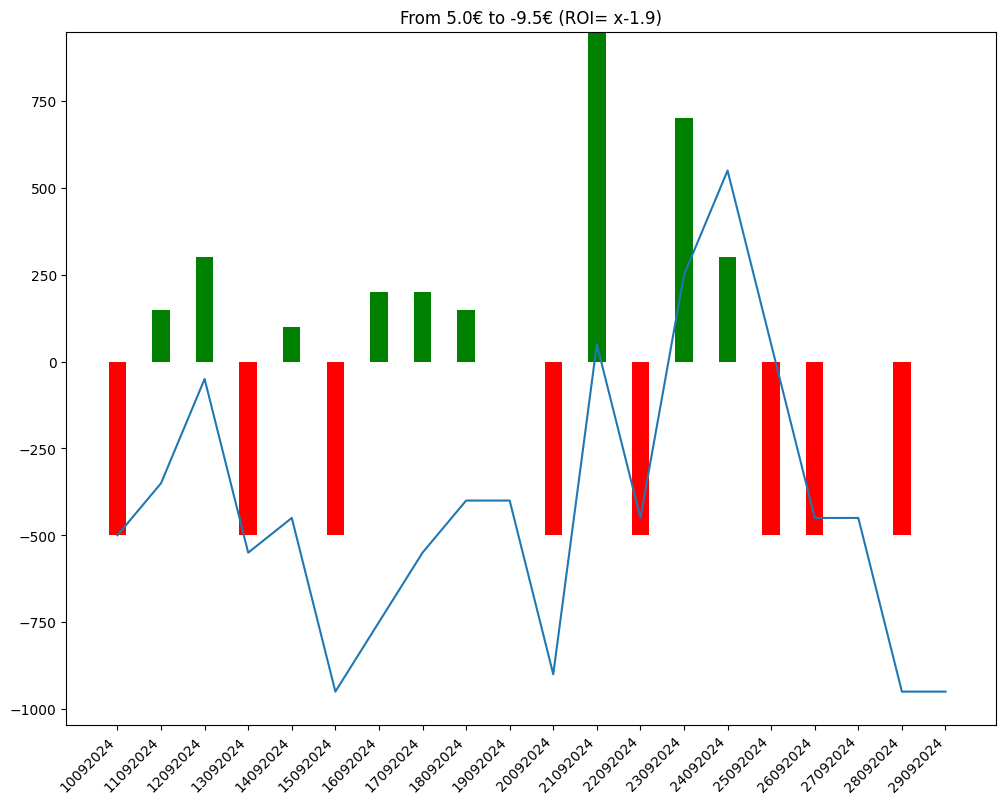
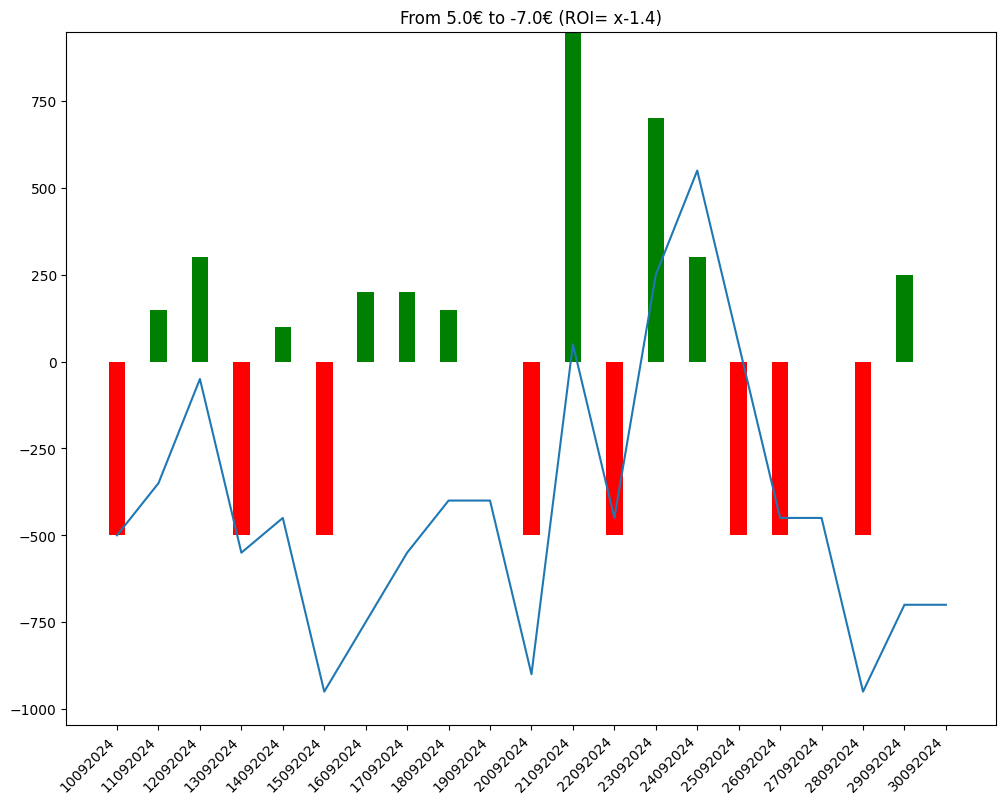
comment from python script

diff --git a/bethistory.html b/bethistory.html
@@ -86,7 +86,8 @@
             En observant la courbe 🤔, on peut avoir une idée visuelle de l'évolution des gains et ainsi évaluer le model utilisé 🧑🏫.
         </p>
         
-        <img src = "/candle.png" alt="candle chart"/><table><tr><td>Chevaux joués</td><td>Gains</td><td>URL Circuits</td></tr><tr><td>11 - JOKLA</td><td>0</td><td><a href=https://www.pmu.fr/turf/29092024/r3/c3 target="_blank">https://www.pmu.fr/turf/29092024/r3/c3</a></td></tr>
+        <img src = "/candle.png" alt="candle chart"/><table><tr><td>Chevaux joués</td><td>Gains</td><td>URL Circuits</td></tr><tr><td>4 - GENERAL JONES</td><td>0</td><td><a href=https://www.pmu.fr/turf/30092024/r3/c3 target="_blank">https://www.pmu.fr/turf/30092024/r3/c3</a></td></tr>
+<tr><td>11 - JOKLA</td><td>+250</td><td><a href=https://www.pmu.fr/turf/29092024/r3/c3 target="_blank">https://www.pmu.fr/turf/29092024/r3/c3</a></td></tr>
 <tr><td>1 - RIO D'OCTOBRE</td><td>-500</td><td><a href=https://www.pmu.fr/turf/28092024/r2/c4 target="_blank">https://www.pmu.fr/turf/28092024/r2/c4</a></td></tr>
 <tr><td>6 - RUCHBAH</td><td>-500</td><td><a href=https://www.pmu.fr/turf/26092024/r1/c3 target="_blank">https://www.pmu.fr/turf/26092024/r1/c3</a></td></tr>
 <tr><td>5 - WATHAB</td><td>-500</td><td><a href=https://www.pmu.fr/turf/25092024/r4/c3 target="_blank">https://www.pmu.fr/turf/25092024/r4/c3</a></td></tr>
